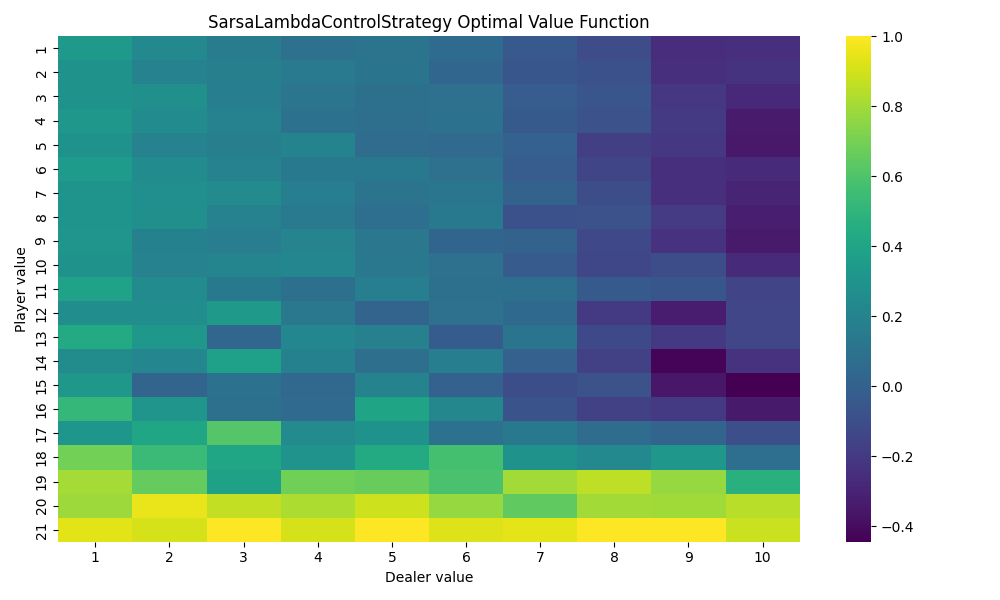
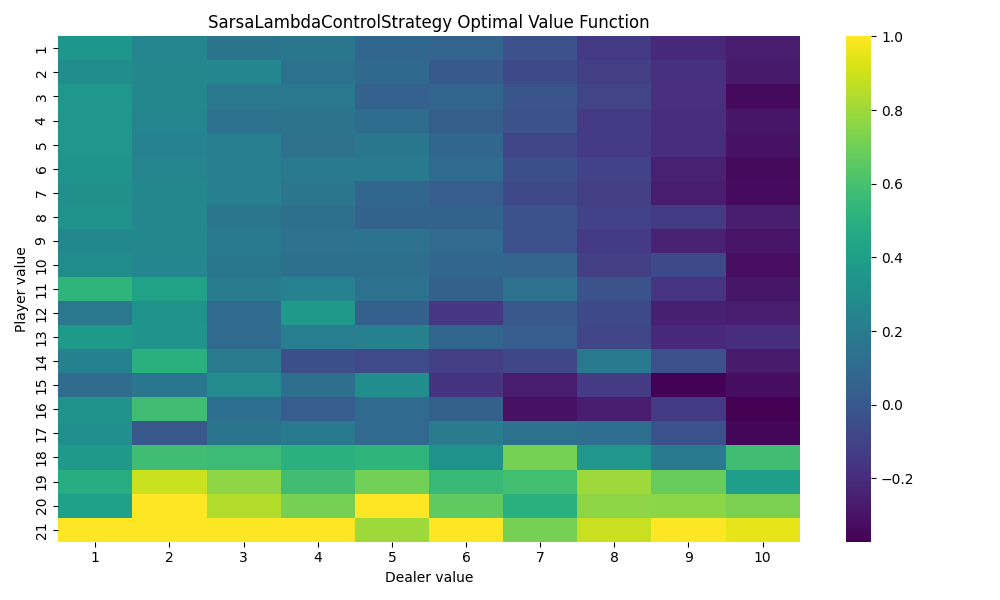
Integrate Monte Carlo Policy Gradient with Deepmind RL Env

diff --git a/dm_env_adapter_test.py b/dm_env_adapter_test.py
@@ -16,6 +16,7 @@ _CONTROL_STRATEGIES = [
     control_strategy.MonteCarloControlStrategy(),
     control_strategy.SarsaLambdaControlStrategy(lmda=0.5),
     control_strategy.LinearFunctionApproximationSarsaLambdaControlStrategy(lmda=0.5),
+    control_strategy.MonteCarloPolicyGradientControlStrategy(),
 ]
 
 

diff --git a/README.md b/README.md
@@ -191,5 +191,6 @@ Action-values learned after 100000 episodes (λ=0.5 for TD-based methods):
 ![Deepmind RL Env API Simulation Monte Carlo](figures/Deepmind_RL_Env_MonteCarloControlStrategy.png)
 ![Deepmind RL Env API Simulation Sarsa Lambda](figures/Deepmind_RL_Env_SarsaLambdaControlStrategy.png)
 ![Deepmind RL Env API Simulation Linear Function Approximiation](figures/Deepmind_RL_Env_LinearFunctionApproximationSarsaLambdaControlStrategy.png)
+![Deepmind RL Env API Simulation Monte Carlo Policy Gradient](figures/Deepmind_RL_Env_MonteCarloPolicyGradientControlStrategy.png)
 
 Similar to earlier findings, fuction approximation method typically performs worse.
